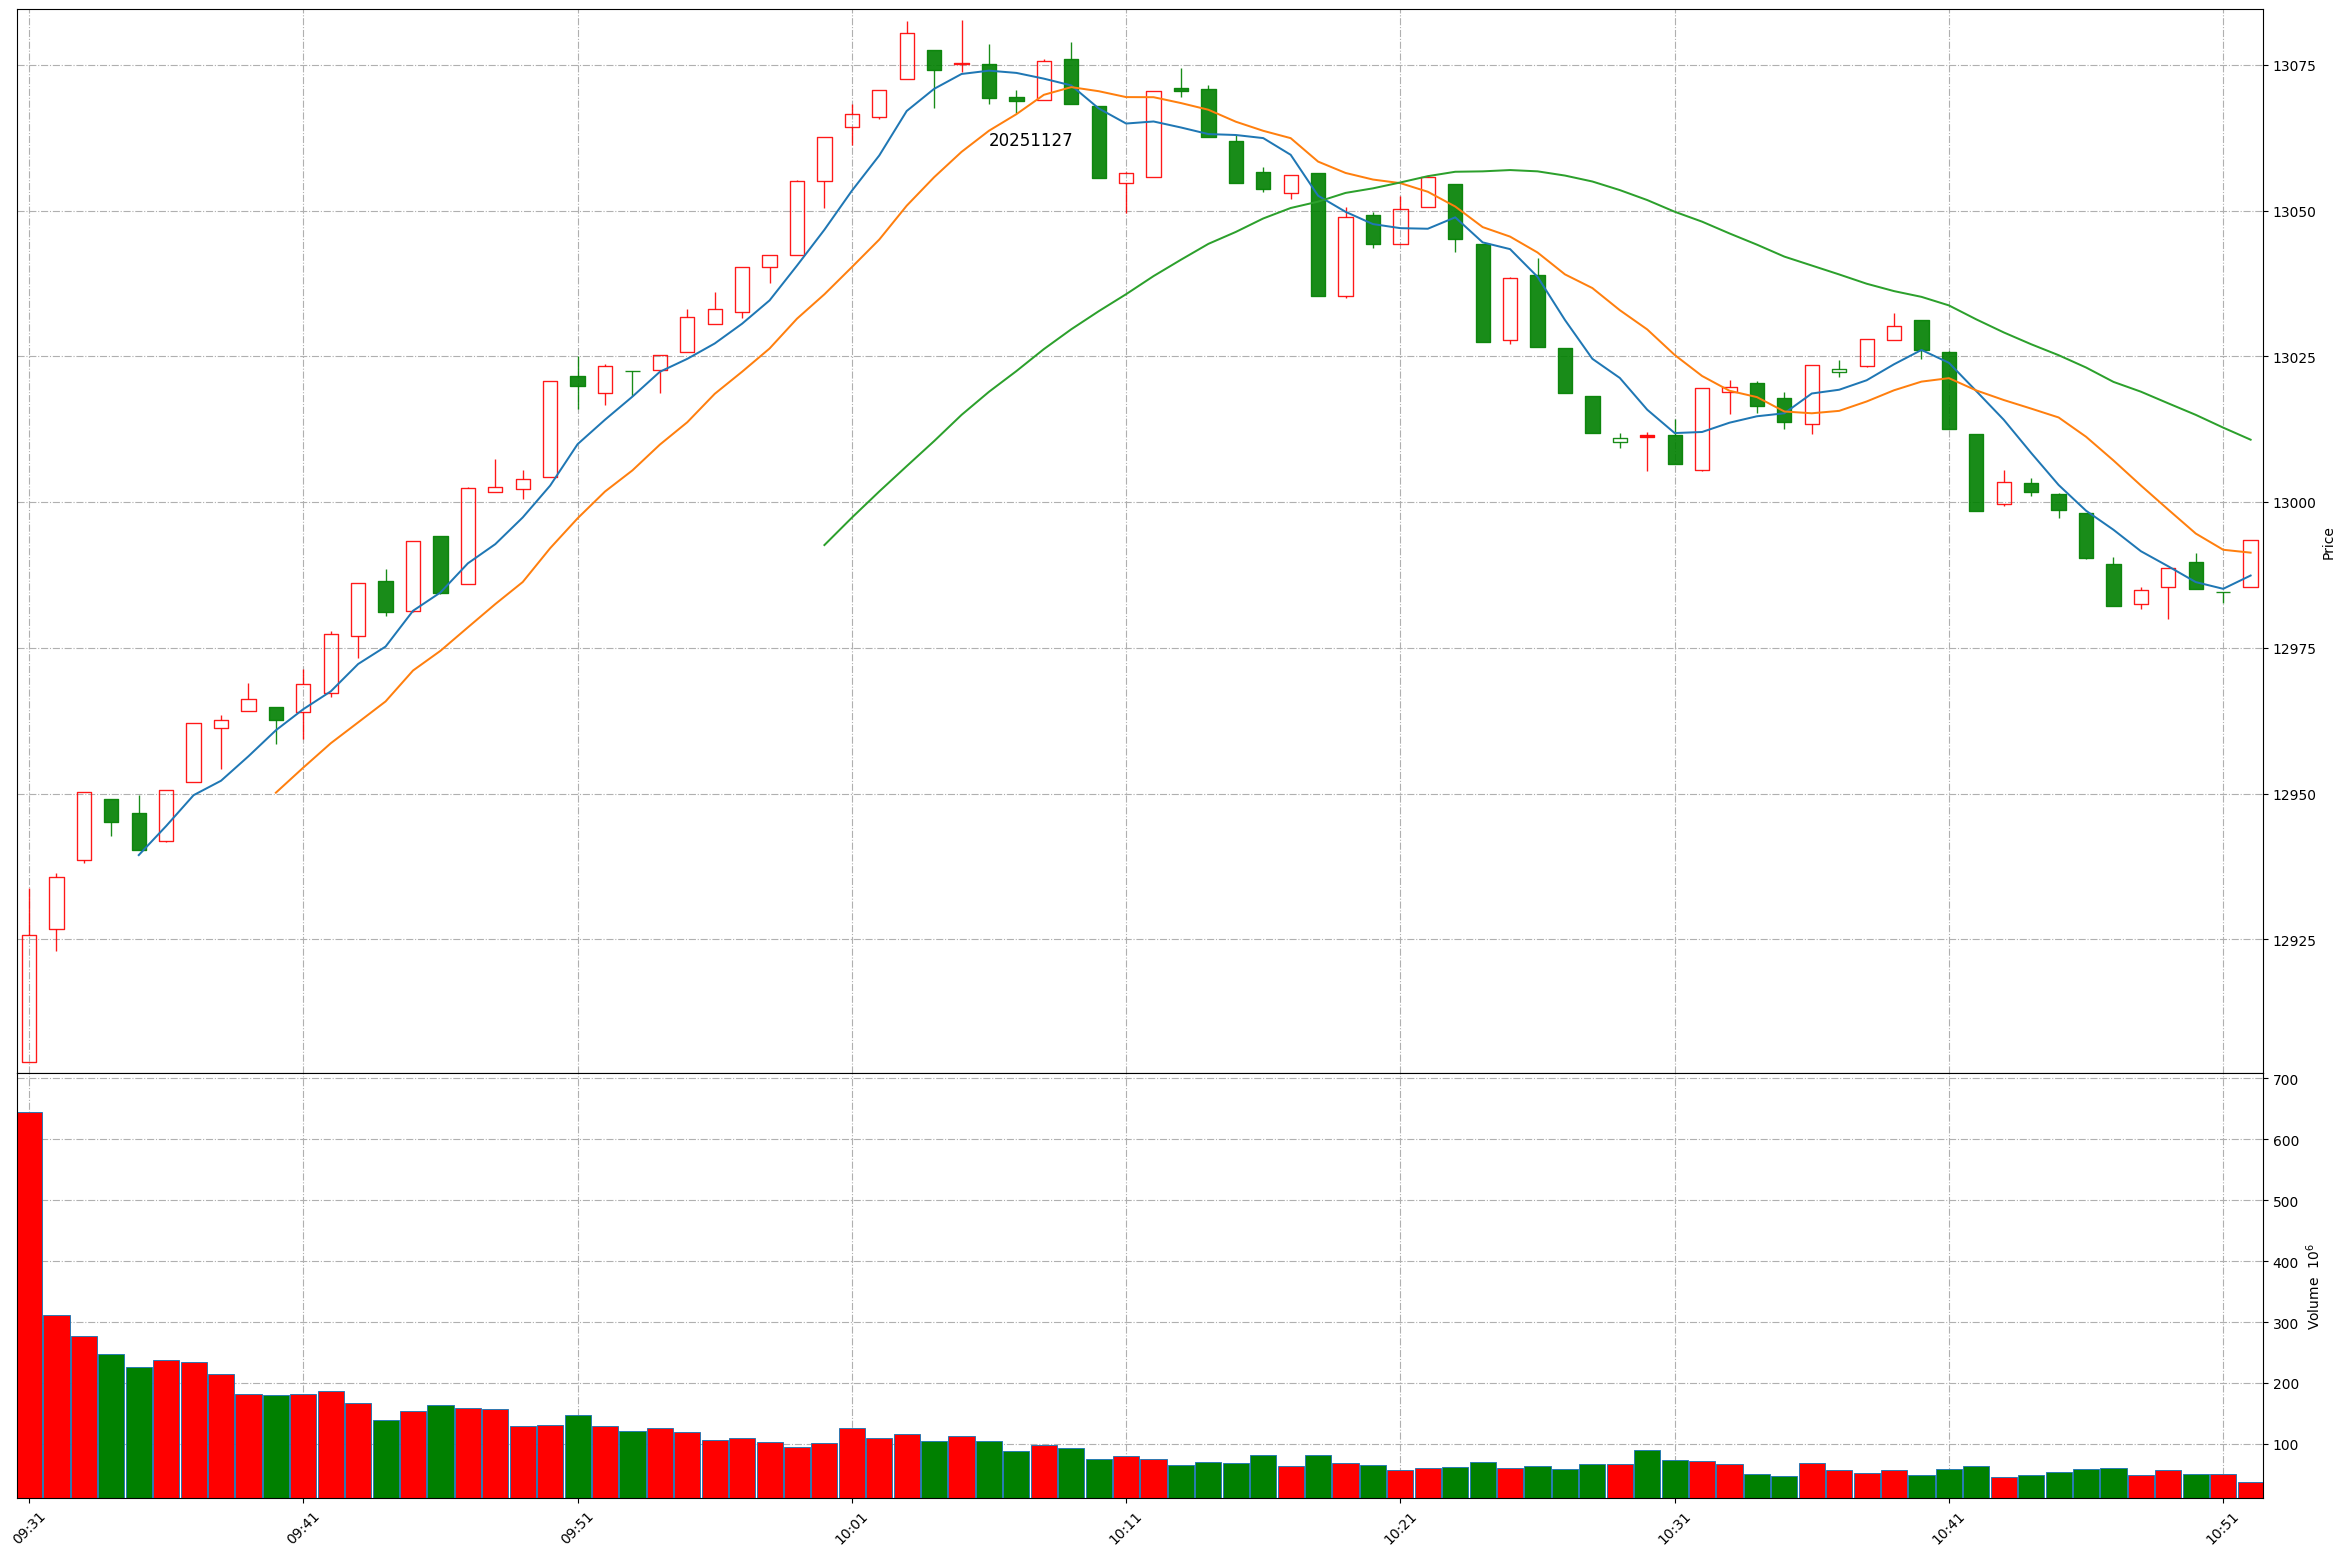
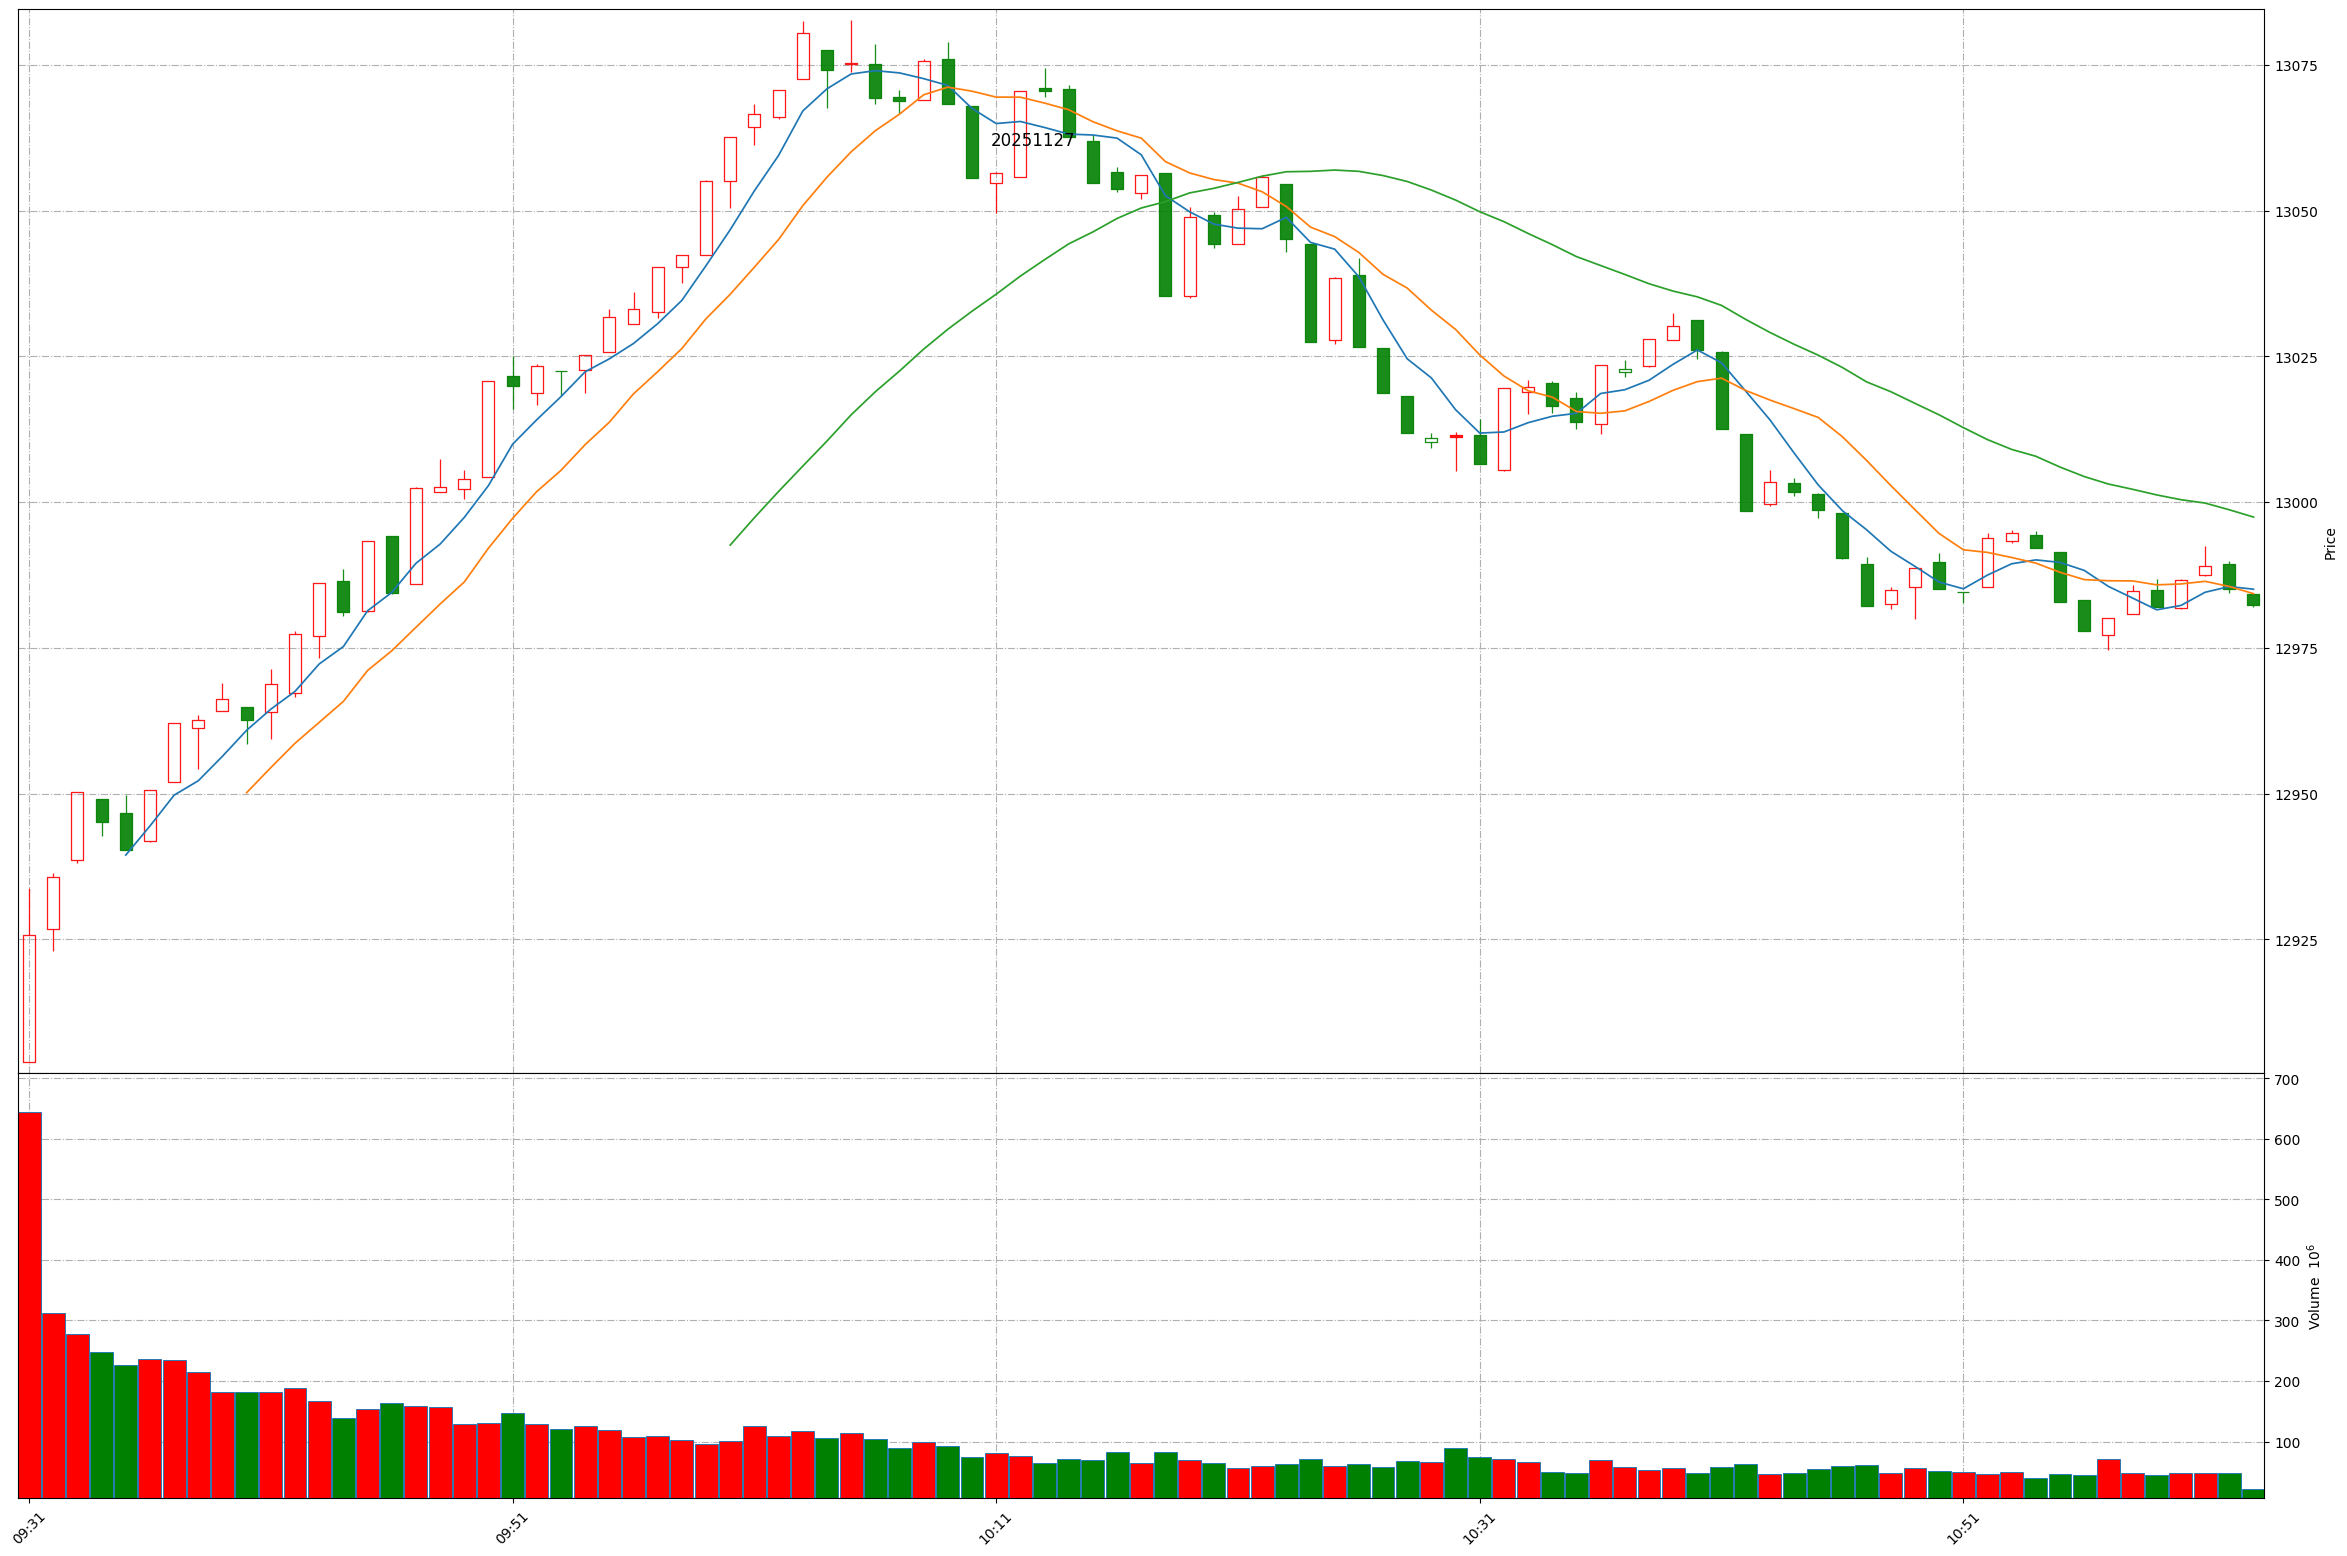
Github action update at 2025-11-27 11:02:35.

Changed region(s): [[0.0311, 0.0308, 0.9646, 0.5553], [0.0, 0.8329, 0.9646, 0.9871], [0.0, 0.5553, 0.0311, 0.6787]]

diff --git a/README.md b/README.md
@@ -1,11 +1,11 @@
 
 # Daily-A-share-market-quotes 每日 A 股指数（5min 更新）- 20251127
 
-### 上证指数 20251127 10:52
+### 上证指数 20251127 11:2
 ![](./fig/2025/11/20251127-sh000001.png)
 
-### 深证成指 20251127 10:52
+### 深证成指 20251127 11:2
 ![](./fig/2025/11/20251127-sz399001.png)
 
-### 北证50 20251127 10:52
+### 北证50 20251127 11:2
 ![](./fig/2025/11/20251127-bj899050.png)
